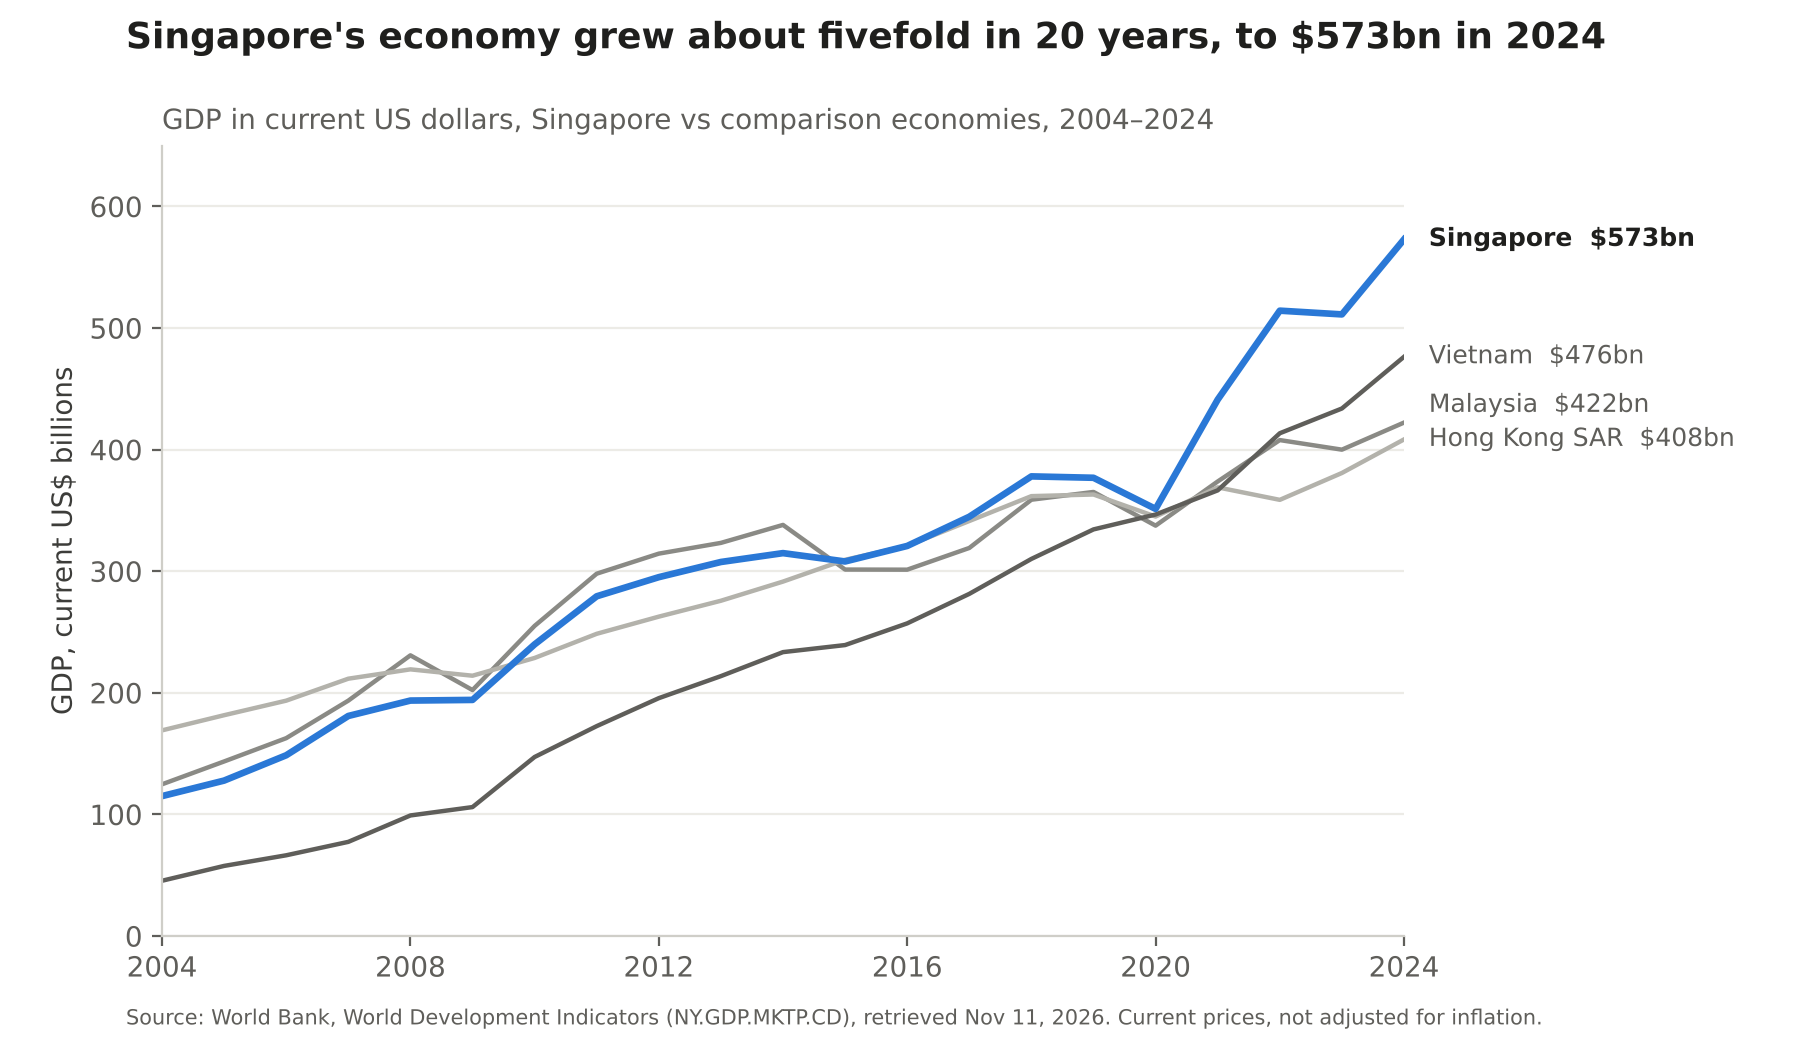
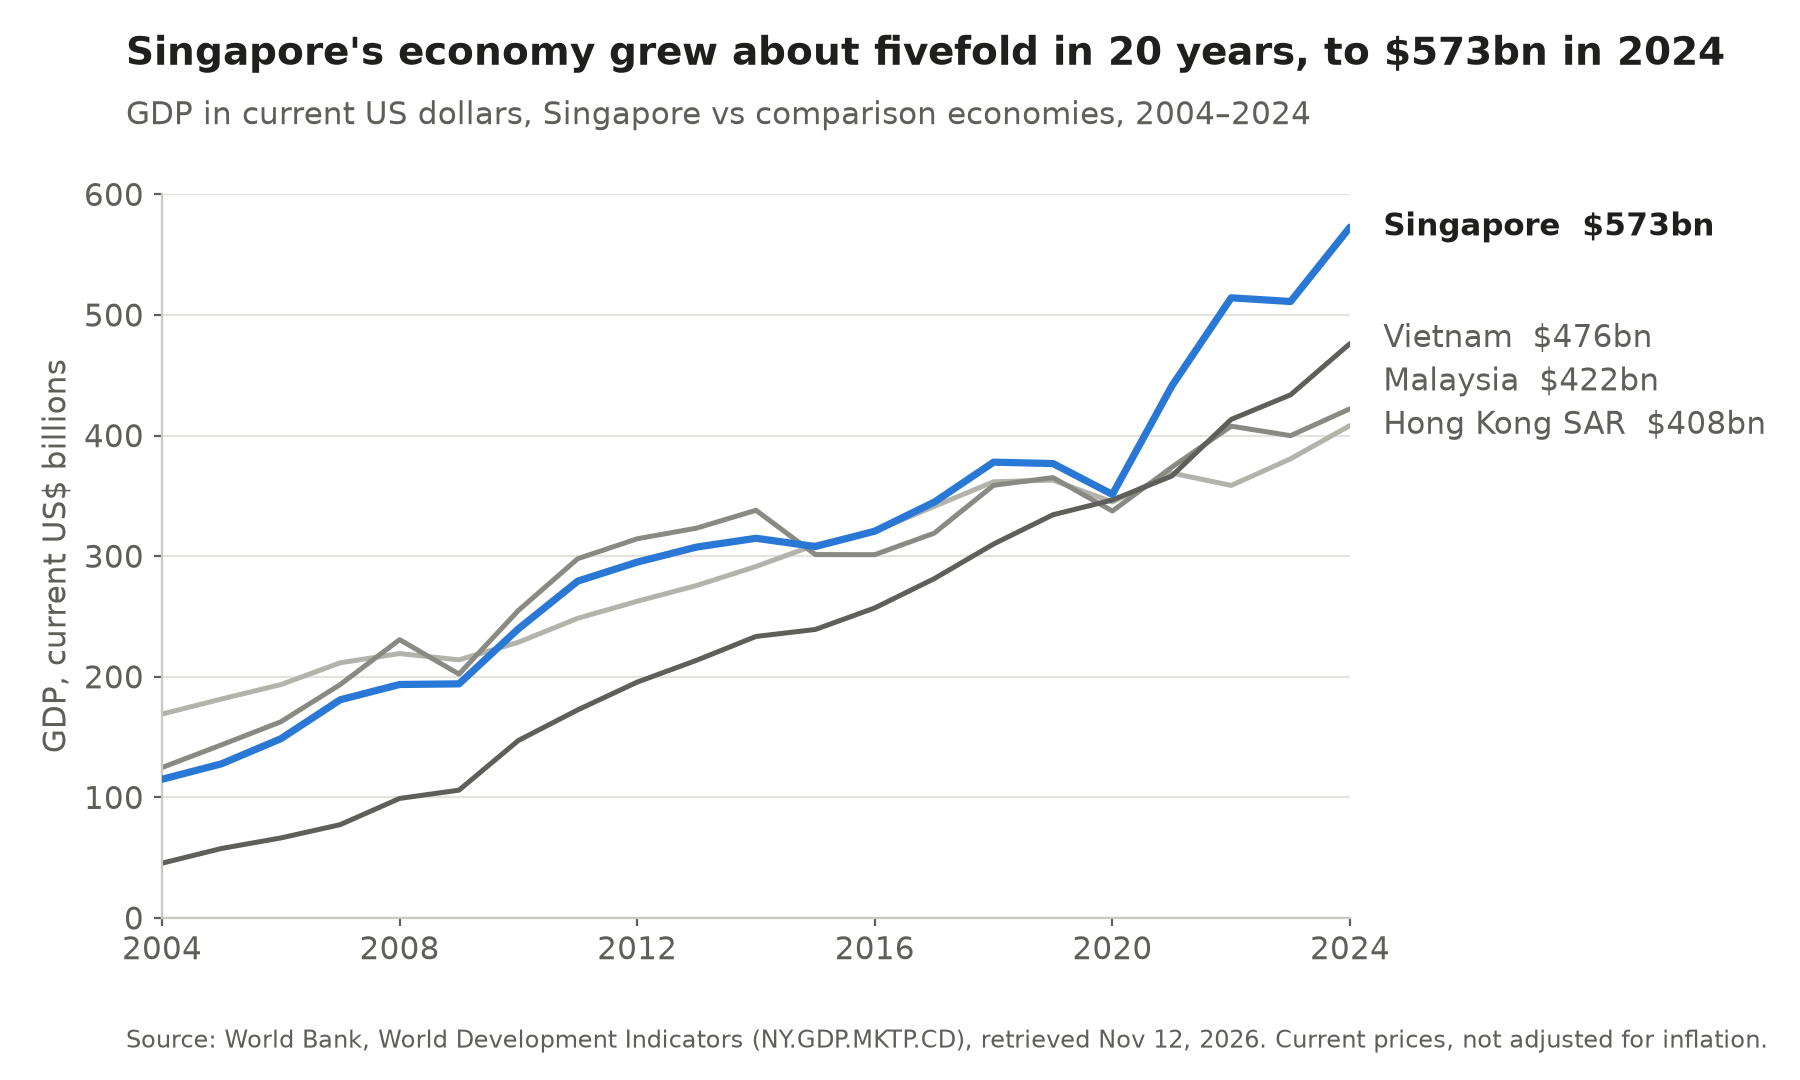
Redraw Ch. 2 GDP chart from official World Bank data
Add shared chart style (scripts/chart_style.py) and a script for the GDP figure,
regenerate figures/ch02_gdp_current_usd.png from data/raw/wdi, add global and
regional ranks to the Ch. 2 key finding, and update project status.

diff --git a/scripts/chart_style.py b/scripts/chart_style.py
@@ -1,0 +1,132 @@
+"""Shared helpers for every chart: load World Bank CSVs and draw in the project's house style.
+
+Style (see CLAUDE.md): Singapore in blue, peers in grays; takeaway title with its number; subtitle with
+measure + years; direct labels at line ends; light horizontal grid only; single y-axis; source line at the bottom
+with indicator code and retrieval date. One PNG per figure, figures/chNN_topic.png.
+"""
+import datetime as dt
+import subprocess
+from pathlib import Path
+
+import matplotlib
+
+matplotlib.use("Agg")
+import matplotlib.pyplot as plt  # noqa: E402
+import pandas as pd  # noqa: E402
+
+ROOT = Path(__file__).resolve().parents[1]
+WDI = ROOT / "data" / "raw" / "wdi"
+FIGURES = ROOT / "figures"
+
+FOCUS = "SGP"
+PEERS = ["MYS", "HKG", "VNM"]
+REGION = "EAS"  # World Bank "East Asia & Pacific" aggregate
+NAMES = {"SGP": "Singapore", "MYS": "Malaysia", "HKG": "Hong Kong SAR", "VNM": "Vietnam",
+         "EAS": "East Asia & Pacific", "WLD": "World"}
+
+BLUE = "#2a78d6"
+GRAYS = ["#5f5e5a", "#8a8a85", "#b3b2ab"]
+INK = "#1f1f1d"
+MUTED = "#5f5e5a"
+GRID = "#e4e3dd"
+
+plt.rcParams.update({
+    "font.family": "DejaVu Sans",
+    "font.size": 11,
+    "axes.edgecolor": "#c9c8c1",
+    "axes.labelcolor": MUTED,
+    "xtick.color": MUTED,
+    "ytick.color": MUTED,
+    "savefig.dpi": 200,
+})
+
+
+def load(code):
+    """One indicator as a long table (iso3, country, year, value), empty values dropped."""
+    df = pd.read_csv(WDI / f"{code}.csv")
+    return df.dropna(subset=["value"]).astype({"year": int})
+
+
+def wide(code, economies):
+    """year x economy table for the chosen economies."""
+    df = load(code)
+    return df[df.iso3.isin(economies)].pivot(index="year", columns="iso3", values="value")[economies]
+
+
+def countries():
+    """Country metadata; is_aggregate rows are regions/income groups, not economies."""
+    df = pd.read_csv(WDI / "countries.csv", keep_default_na=False)
+    df["is_aggregate"] = df.is_aggregate.astype(str) == "True"
+    return df
+
+
+def retrieved(code):
+    """Date the CSV was committed (= downloaded by the Fetch data workflow); today if not committed yet."""
+    path = WDI / f"{code}.csv"
+    out = subprocess.run(["git", "log", "-1", "--format=%cs", "--", str(path)],
+                         cwd=ROOT, capture_output=True, text=True).stdout.strip()
+    day = dt.date.fromisoformat(out) if out else dt.date.today()
+    return f"{day:%b} {day.day}, {day.year}"
+
+
+def _spread(ys, gap):
+    """Nudge label positions apart so no two are closer than `gap`, keeping their order."""
+    order = sorted(range(len(ys)), key=lambda i: ys[i])
+    pos = list(ys)
+    for a, b in zip(order, order[1:]):
+        if pos[b] - pos[a] < gap:
+            pos[b] = pos[a] + gap
+    return pos
+
+
+def line_chart(data, *, title, subtitle, ylabel, source, out, fmt, scale=1.0, ymin=0):
+    """Line chart, focus economy first in `data.columns`.
+
+    data: year x economy table (raw units); scale divides values for display (e.g. 1e9 for billions);
+    fmt: formats a displayed end value for the direct label, e.g. lambda v: f"${v:,.0f}bn".
+    """
+    d = data / scale
+    fig, ax = plt.subplots(figsize=(9, 5.4))
+    fig.subplots_adjust(left=0.09, right=0.75, top=0.82, bottom=0.15)
+
+    # Peers get darker grays the higher they end, so label order and shade agree.
+    focus_iso, peers = d.columns[0], list(d.columns[1:])
+    peers.sort(key=lambda iso: d[iso].dropna().iloc[-1], reverse=True)
+    colors = {focus_iso: BLUE, **{iso: GRAYS[min(i, len(GRAYS) - 1)] for i, iso in enumerate(peers)}}
+    ends = []
+    for iso in [*reversed(peers), focus_iso]:  # focus drawn last, on top
+        s = d[iso].dropna()
+        focus = iso == focus_iso
+        ax.plot(s.index, s.values, color=colors[iso], lw=2.6 if focus else 1.8,
+                zorder=3 if focus else 2, solid_capstyle="round")
+        ends.append((iso, s.index[-1], s.iloc[-1], focus))
+
+    # y range: start at ymin and end on a tick just above the data, so the top gridline is drawn.
+    ticks = ax.yaxis.get_major_locator().tick_values(ymin if ymin is not None else d.min().min(), d.max().max())
+    lo = ymin if ymin is not None else ticks[0]
+    hi = ticks[ticks >= d.max().max()][0]
+    ax.set_ylim(lo, hi)
+    ax.set_xlim(d.index.min(), d.index.max())
+    label_y = _spread([e[2] for e in ends], gap=(hi - lo) * 0.06)
+    for (iso, year, val, focus), y in zip(ends, label_y):
+        ax.annotate(f"{NAMES.get(iso, iso)}  {fmt(val)}", xy=(year, y), xytext=(12, 0),
+                    textcoords="offset points", va="center", annotation_clip=False,
+                    color=INK if focus else MUTED, fontweight="bold" if focus else "normal")
+
+    ax.grid(axis="y", color=GRID, lw=0.8)
+    ax.set_axisbelow(True)
+    for side in ("top", "right"):
+        ax.spines[side].set_visible(False)
+    ax.tick_params(length=3)
+    ax.set_ylabel(ylabel)
+    years = d.index
+    ax.set_xticks(range(years.min(), years.max() + 1, 4))
+
+    fig.text(0.07, 0.94, title, fontsize=14, fontweight="bold", color=INK)
+    fig.text(0.07, 0.885, subtitle, fontsize=11, color=MUTED)
+    fig.text(0.07, 0.03, source, fontsize=8.5, color=MUTED)
+
+    FIGURES.mkdir(exist_ok=True)
+    fig.savefig(FIGURES / out)
+    plt.close(fig)
+    print(f"wrote figures/{out}")

diff --git a/scripts/ch02_gdp.py b/scripts/ch02_gdp.py
@@ -1,0 +1,31 @@
+"""Ch. 2 figure: GDP in current US$, Singapore vs comparison economies, 2004-2024.
+
+Reads data/raw/wdi/NY.GDP.MKTP.CD.csv (from the Fetch data workflow) and writes figures/ch02_gdp_current_usd.png.
+Run: python scripts/ch02_gdp.py
+"""
+from chart_style import FOCUS, PEERS, line_chart, retrieved, wide
+
+CODE = "NY.GDP.MKTP.CD"
+FOLD = {2: "doubled", 3: "tripled", 4: "grew about fourfold", 5: "grew about fivefold", 6: "grew about sixfold"}
+
+gdp = wide(CODE, [FOCUS] + PEERS).loc[2004:2024]
+first, last = gdp.index.min(), gdp.index.max()
+sgp0, sgp1 = gdp.loc[first, FOCUS] / 1e9, gdp.loc[last, FOCUS] / 1e9
+ratio = sgp1 / sgp0
+growth = FOLD.get(round(ratio), f"grew {ratio:.1f}x")
+
+print(f"SGP {first}: ${sgp0:,.1f}bn   SGP {last}: ${sgp1:,.1f}bn   ratio {ratio:.2f}")
+for iso in PEERS:
+    print(f"{iso} {last}: ${gdp.loc[last, iso] / 1e9:,.1f}bn")
+
+line_chart(
+    gdp,
+    title=f"Singapore's economy {growth} in {last - first} years, to ${sgp1:,.0f}bn in {last}",
+    subtitle=f"GDP in current US dollars, Singapore vs comparison economies, {first}–{last}",
+    ylabel="GDP, current US$ billions",
+    source=f"Source: World Bank, World Development Indicators ({CODE}), retrieved {retrieved(CODE)}. "
+           "Current prices, not adjusted for inflation.",
+    out="ch02_gdp_current_usd.png",
+    fmt=lambda v: f"${v:,.0f}bn",
+    scale=1e9,
+)

diff --git a/CLAUDE.md b/CLAUDE.md
@@ -78,15 +78,19 @@ Nov 29 text rewritten (Thanksgiving, no meeting) · Dec 6 case + peer review, re
 
 ## Status (Nov 11, 2026)
 
-- Done: project scaffold; first Ch. 2 chart (GDP current US$, SGP vs peers). Its numbers came through a web-reading tool,
-  so **re-run `scripts/fetch_worldbank.py` and regenerate the chart from the official CSV**; then verify SGP 2024 ≈ $572.9bn
-  on data.worldbank.org.
+- Done: project scaffold; WDI + WGI fetched by the Fetch data workflow (Nov 12, `data/raw/wdi/`); first Ch. 2 chart
+  (GDP current US$, SGP vs peers) redrawn from the official CSV by `scripts/ch02_gdp.py` (SGP 2024 = $572.9bn).
+- Charts: shared style in `scripts/chart_style.py` (`line_chart`, `wide`, `load`, `countries`, `retrieved`); one script per
+  figure, `scripts/chNN_topic.py`. Local setup: `python3 -m venv .venv && .venv/bin/pip install -r requirements.txt`.
+  The World Bank API is not reachable from Estella's Mac (times out): fetch via the GitHub workflow, then `git pull`.
+- WGI: the API serves the estimates only as `GOV_WGI_XX.EST` (saved as `XX.EST.csv`); percentile ranks (`XX.PER.RNK`)
+  are not available, so compute global/regional ranks from the estimates.
 - Notes found during planning: World Bank WDI likely has no $2.15 poverty or Gini data for Singapore; Singapore's official
   Gini is published by SingStat (household income from work, before/after taxes and transfers): ask the professor
   whether SingStat is acceptable. B-READY 2024 (first edition) covers Singapore. OECD TiVA 2025 edition covers Singapore.
   Much of Singapore's exports are re-exports: use SingStat's domestic exports vs re-exports split in Ch. 3–4.
   A lot of Singapore's FDI passes through regional HQ / holding companies: mention in Ch. 6.
-- Next for Member A: run the fetch; Ch. 2 charts (GDP per capita incl. PPP, growth, WGI radar, CPI/LPI/B-READY rank
+- Next for Member A: Ch. 2 charts (GDP per capita incl. PPP, growth, WGI radar, CPI/LPI/B-READY rank
   tables with global + regional rank); then Ch. 5 from TiVA (download from data-explorer.oecd.org if no API route works).
 - Open questions for the professor: SingStat OK as a source? Compute RCA ourselves or OEC values OK? Required
   platform/format for the site? Is a class presentation required? Is AI-drafted text OK?

diff --git a/text/ch02_macro.md b/text/ch02_macro.md
@@ -4,14 +4,20 @@
 
 ## Key finding
 
-Singapore's GDP grew about fivefold in 20 years, from $115bn in 2004 to $573bn in 2024 (current US dollars),
-overtaking Malaysia, Hong Kong SAR and Vietnam.
+Singapore's GDP grew about fivefold in 20 years, from $115bn in 2004 to $573bn in 2024 (current US dollars).
+It overtook Malaysia in 2015 and Hong Kong SAR in 2017 and has stayed ahead of Vietnam throughout. Its global rank rose
+from 43rd of 209 economies in 2004 to 26th of 200 in 2024; in East Asia & Pacific it rose from 9th of 36 to 6th of 33,
+behind only China, Japan, Korea, Australia and Indonesia.
 
 ## Size and growth
 
 ![Singapore's economy grew about fivefold in 20 years](../figures/ch02_gdp_current_usd.png)
 
-*Status: numbers not yet checked against data.worldbank.org.*
+*Note: ranks count economies with data that year (World Bank aggregates excluded); regional rank uses the World Bank
+"East Asia & Pacific" region.*
+
+*Status: chart redrawn from the official World Bank CSV (retrieved Nov 12, 2026) by `scripts/ch02_gdp.py`.
+Owner to spot-check 2–3 numbers on data.worldbank.org.*
 
 ## Still to come
 
